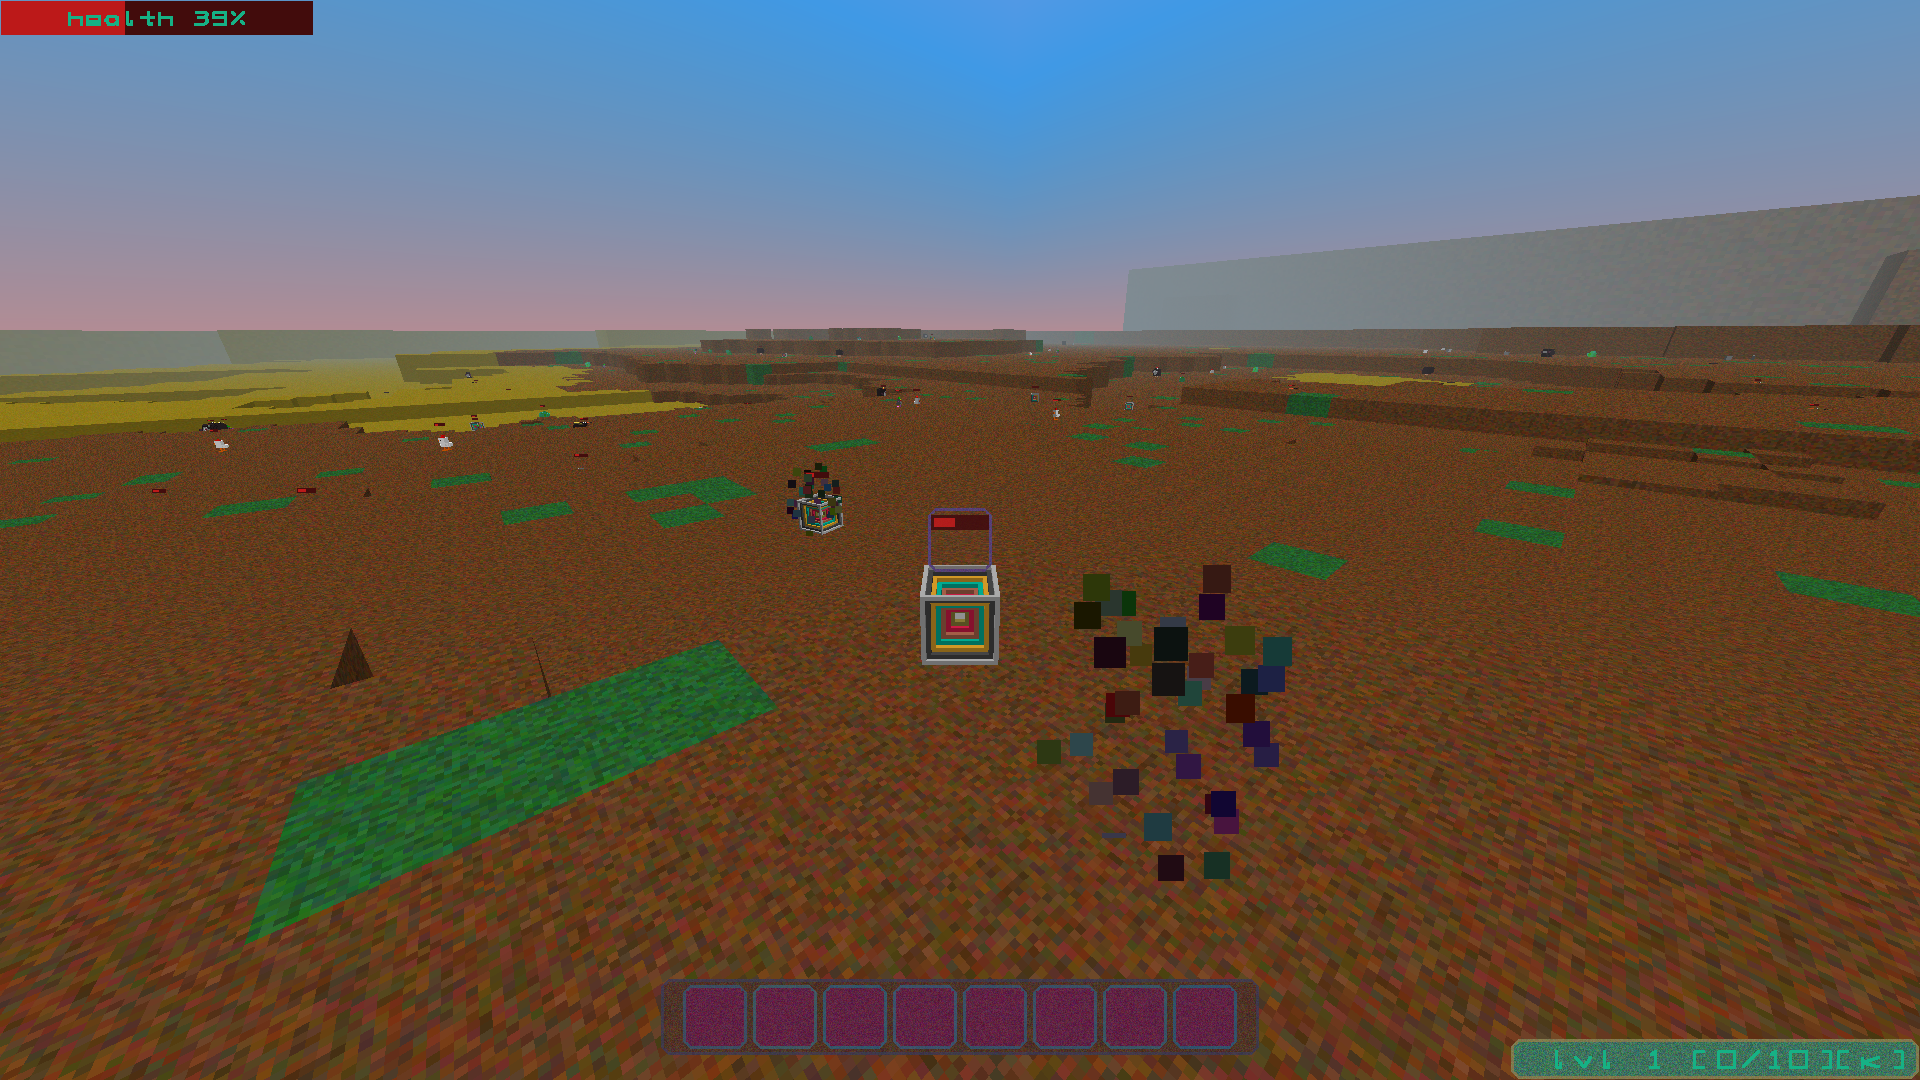
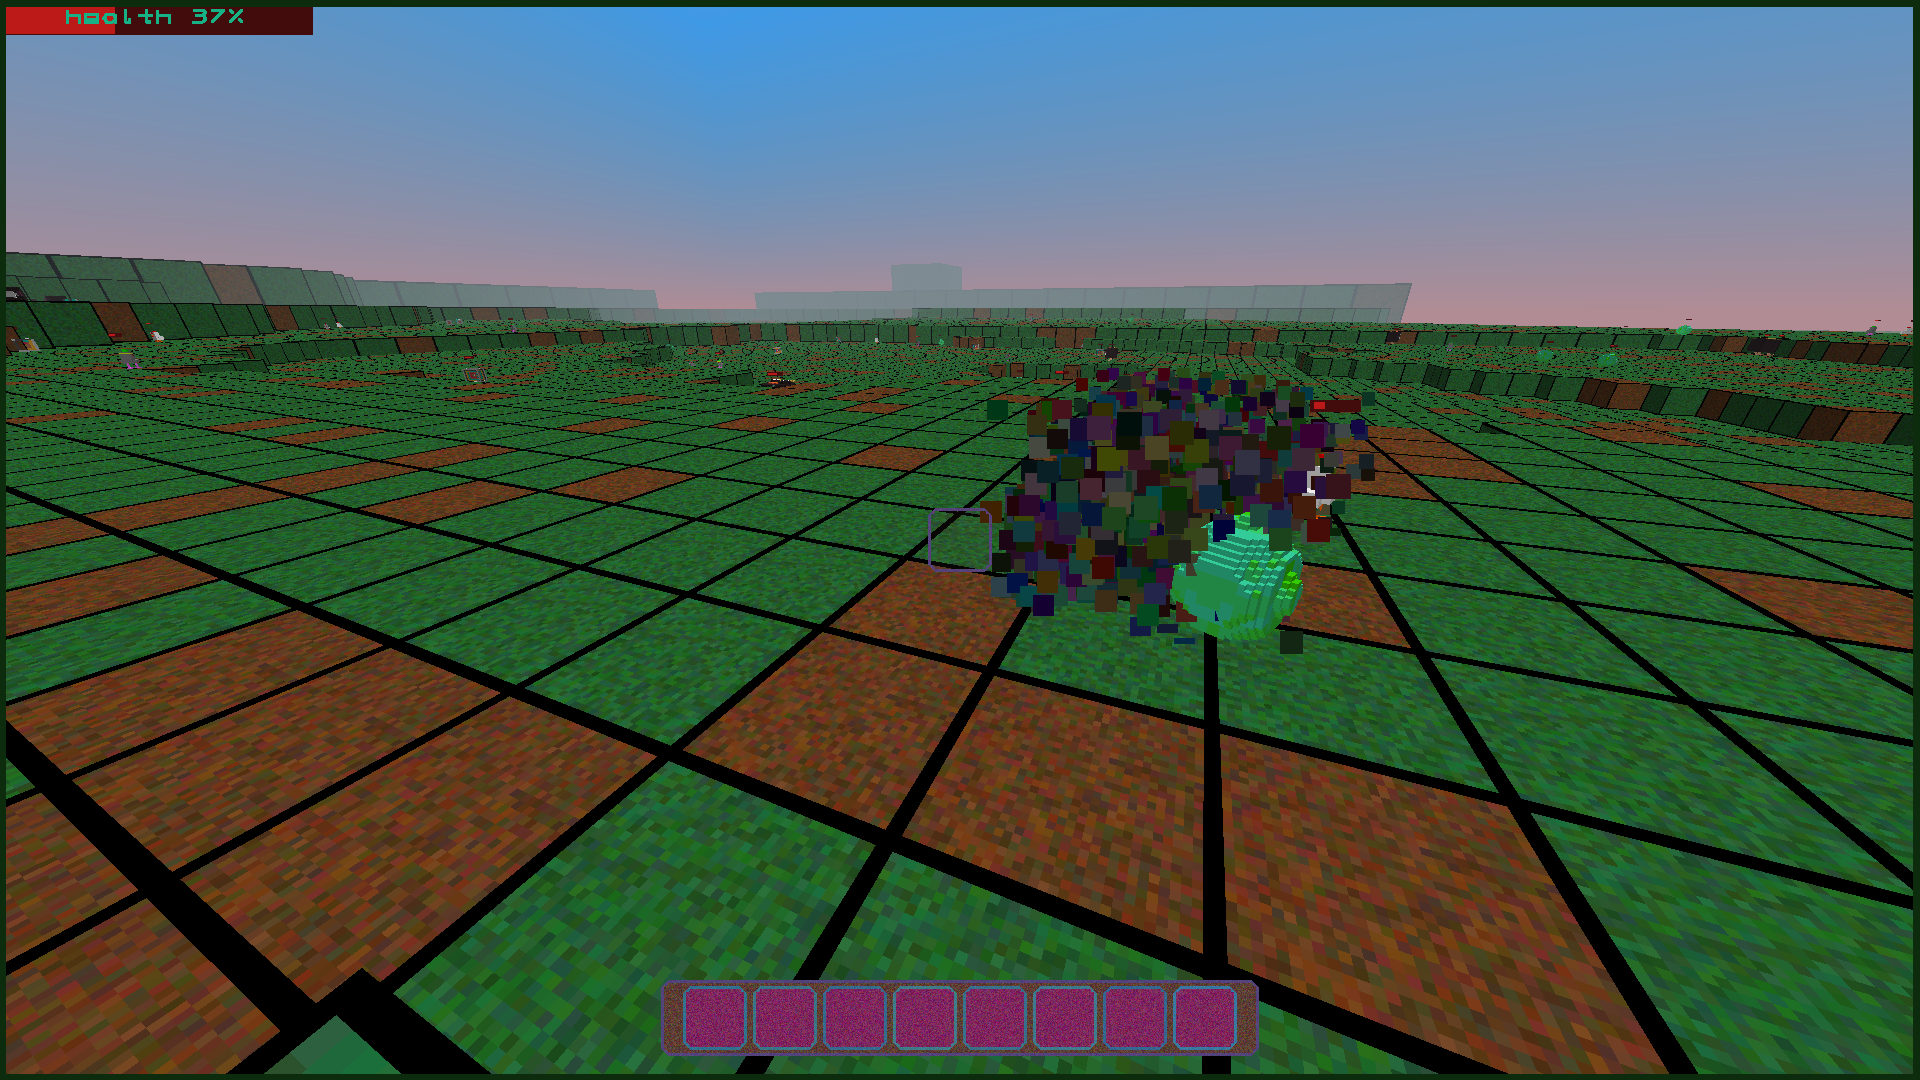
added more grass

diff --git a/src/inner_core/voxels/terrain/octree_systems/octree_terrain_chunk_system.c b/src/inner_core/voxels/terrain/octree_systems/octree_terrain_chunk_system.c
@@ -33,24 +33,24 @@ void generate_terrain(ChunkOctree* chunk_octree, unsigned char depth, float3 pos
 // generates our terrain voxels
 void OctreeTerrainChunkSystem(ecs_iter_t *it) {
     if (!ecs_query_changed(it->ctx, NULL)) return;
-    #ifdef zoxel_time_octree_terrain_chunk_system
-        begin_timing()
-    #endif
+#ifdef zoxel_time_octree_terrain_chunk_system
+    begin_timing()
+#endif
     const unsigned char target_depth = max_octree_depth;
     const unsigned char chunk_voxel_length = powers_of_two_byte[target_depth];
     const float2 map_size_f = (float2) { chunk_voxel_length, chunk_voxel_length };
-    const ChunkPosition *chunkPositions = ecs_field(it, ChunkPosition, 2);
-    GenerateChunk *generateChunks = ecs_field(it, GenerateChunk, 3);
-    ChunkDirty *chunkDirtys = ecs_field(it, ChunkDirty, 4);
-    ChunkOctree *chunkOctrees = ecs_field(it, ChunkOctree, 5);
+    zox_field_in(ChunkPosition, chunkPositions, 2)
+    zox_field_out(GenerateChunk, generateChunks, 3)
+    zox_field_out(ChunkDirty, chunkDirtys, 4)
+    zox_field_out(ChunkOctree, chunkOctrees, 5)
     for (int i = 0; i < it->count; i++) {
-        GenerateChunk *generateChunk = &generateChunks[i];
+        zox_field_i_out(GenerateChunk, generateChunks, generateChunk)
         if (generateChunk->value != 1) continue;
-        ChunkDirty *chunkDirty = &chunkDirtys[i];
+        zox_field_i_out(ChunkDirty, chunkDirtys, chunkDirty)
         if (chunkDirty->value) continue;
-        const ChunkPosition *chunkPosition = &chunkPositions[i];
-        ChunkOctree *chunkOctree = &chunkOctrees[i];
-        float3 chunk_position_float3 = float3_from_int3(chunkPosition->value);
+        zox_field_i_in(ChunkPosition, chunkPositions, chunkPosition)
+        zox_field_i_out(ChunkOctree, chunkOctrees, chunkOctree)
+        const float3 chunk_position_float3 = float3_from_int3(chunkPosition->value);
         fill_new_octree(chunkOctree, 0, target_depth);
         const byte2 set_dirt = (byte2) { 1, target_depth };
         const byte2 set_grass = (byte2) { 2, target_depth };
@@ -58,30 +58,30 @@ void OctreeTerrainChunkSystem(ecs_iter_t *it) {
         byte3 voxel_position;
         for (voxel_position.x = 0; voxel_position.x < chunk_voxel_length; voxel_position.x++) {
             for (voxel_position.z = 0; voxel_position.z < chunk_voxel_length; voxel_position.z++) {
-                #ifdef zoxel_is_flat_height
-                    int global_height = int_floor(terrain_amplifier * flat_height_level);
-                #else
-                    int global_height = int_floor(terrain_boost + -terrain_minus_amplifier + terrain_amplifier * perlin_terrain(
-                        noise_positiver2 + chunk_position_float3.x + (voxel_position.x / map_size_f.x), 
-                        noise_positiver2 + chunk_position_float3.z + (voxel_position.z / map_size_f.y),
-                        terrain_frequency, terrain_seed, terrain_octaves));
-                    if (global_height < lowest_voxel_height) global_height = lowest_voxel_height;
-                #endif
-                int global_position_y = (int) (chunk_position_float3.y * chunk_voxel_length);
+#ifdef zoxel_is_flat_height
+                int global_height = int_floor(terrain_amplifier * flat_height_level);
+#else
+                int global_height = int_floor(terrain_boost + -terrain_minus_amplifier + terrain_amplifier * perlin_terrain(
+                    noise_positiver2 + chunk_position_float3.x + (voxel_position.x / map_size_f.x),
+                    noise_positiver2 + chunk_position_float3.z + (voxel_position.z / map_size_f.y),
+                    terrain_frequency, terrain_seed, terrain_octaves));
+                if (global_height < lowest_voxel_height) global_height = lowest_voxel_height;
+#endif
+                const int global_position_y = (int) (chunk_position_float3.y * chunk_voxel_length);
                 int local_height = (int) (global_height - global_position_y);
                 if (local_height > 0) {
-                    unsigned char chunk_below_max = local_height > chunk_voxel_length;
+                    const unsigned char chunk_below_max = local_height > chunk_voxel_length;
                     if (chunk_below_max) local_height = chunk_voxel_length;
                     for (voxel_position.y = 0; voxel_position.y < local_height; voxel_position.y++) {
                         byte3 node_position = voxel_position;
                         if (!chunk_below_max && voxel_position.y == local_height - 1) {
                             // if top voxel
-                            int current_position_y = global_position_y + voxel_position.y;
+                            const int current_position_y = global_position_y + voxel_position.y;
                             if (current_position_y < sand_height) {
                                 // zoxel_log(" > sand voxel created\n");
                                 set_octree_voxel(chunkOctree, &node_position, &set_sand, 0);
                             } else {
-                                if (rand() % 100 >= 96) set_octree_voxel(chunkOctree, &node_position, &set_grass, 0);
+                                if (rand() % 100 <= grass_spawn_chance) set_octree_voxel(chunkOctree, &node_position, &set_grass, 0);
                                 else set_octree_voxel(chunkOctree, &node_position, &set_dirt, 0);
                             }
                         } else {
@@ -91,22 +91,22 @@ void OctreeTerrainChunkSystem(ecs_iter_t *it) {
                 }
             }
         }
-        #ifndef zox_disable_closing_octree_nodes
-            close_same_nodes(chunkOctree);
-        #endif
+#ifndef zox_disable_closing_octree_nodes
+        close_same_nodes(chunkOctree);
+#endif
         // close_solid_nodes(chunkOctree);
-        #ifdef zoxel_time_octree_terrain_chunk_system
-            did_do_timing()
-        #endif
+#ifdef zoxel_time_octree_terrain_chunk_system
+        did_do_timing()
+#endif
         generateChunk->value = 0;
         chunkDirty->value = 1;
         /*if (zox_has(e, GenerateChunkEntities)) {
             zox_set(e, GenerateChunkEntities, { zox_chunk_entities_state_triggered })
         }*/
     }
-    #ifdef zoxel_time_octree_terrain_chunk_system
-        end_timing("    - octree_terrain_chunk_system")
-    #endif
+#ifdef zoxel_time_octree_terrain_chunk_system
+    end_timing("    - octree_terrain_chunk_system")
+#endif
 } zox_declare_system(OctreeTerrainChunkSystem)
 
 
